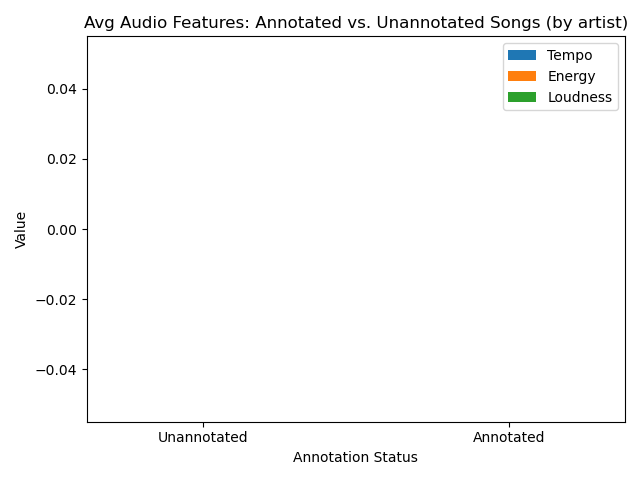
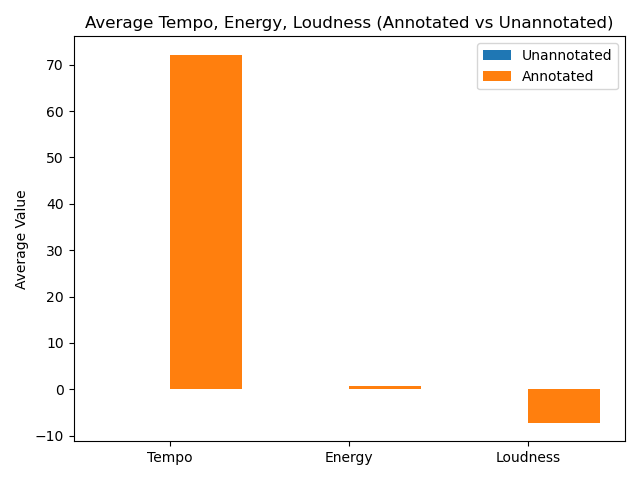
...

diff --git a/audio_features_data.py b/audio_features_data.py
@@ -1,0 +1,57 @@
+import sqlite3
+import requests
+import time
+from get_spotify_token import get_spotify_token
+
+DB_NAME = '/Users/skylaremerson/Desktop/SI206/skyhand/music_data.sqlite'
+ACCESS_TOKEN = get_spotify_token()
+HEADERS = {'Authorization': f'Bearer {ACCESS_TOKEN}'}
+BASE_URL = 'https://api.spotify.com/v1/audio-features'
+
+LIMIT_PER_RUN = 25
+
+def get_audio_features_batch(track_ids):
+    ids_string = ",".join(track_ids)
+    response = requests.get(f"{BASE_URL}?ids={ids_string}", headers=HEADERS)
+    if response.status_code != 200:
+        print(f"Batch request failed: {response.status_code}")
+        return []
+    return response.json().get("audio_features", [])
+
+def store_audio_features():
+    conn = sqlite3.connect(DB_NAME)
+    cur = conn.cursor()
+
+    cur.execute('''
+        SELECT track_id FROM Tracks
+        WHERE track_id NOT IN (SELECT track_id FROM AudioFeatures)
+        LIMIT ?
+    ''', (LIMIT_PER_RUN,))
+    track_ids = [row[0] for row in cur.fetchall()]
+    print(f"Fetching audio features for {len(track_ids)} tracks...")
+
+    features_list = get_audio_features_batch(track_ids)
+    stored = 0
+
+    for features in features_list:
+        if features is None:
+            continue
+        cur.execute('''
+            INSERT OR IGNORE INTO AudioFeatures (track_id, tempo, energy, loudness)
+            VALUES (?, ?, ?, ?)
+        ''', (
+            features['id'],
+            features['tempo'],
+            features['energy'],
+            features['loudness']
+        ))
+        print(f"Stored: {features['id']}")
+        stored += 1
+        time.sleep(0.1)
+
+    conn.commit()
+    conn.close()
+    print(f"Done. Stored features for {stored} tracks.")
+
+if __name__ == '__main__':
+    store_audio_features()

diff --git a/generate_mock_audio_features.py b/generate_mock_audio_features.py
@@ -1,0 +1,34 @@
+import sqlite3
+import random
+
+DB_NAME = '/Users/skylaremerson/Desktop/SI206/skyhand/music_data.sqlite'
+
+def generate_mock_audio_features():
+    conn = sqlite3.connect(DB_NAME)
+    cur = conn.cursor()
+
+    # Get all track_ids that do NOT already have audio features
+    cur.execute('''
+        SELECT track_id FROM Tracks
+        WHERE track_id NOT IN (SELECT track_id FROM AudioFeatures)
+    ''')
+    track_ids = [row[0] for row in cur.fetchall()]
+    print(f"Generating features for {len(track_ids)} tracks...")
+
+    for track_id in track_ids:
+        # Generate realistic ranges for audio features
+        tempo = round(random.uniform(60, 180), 2)         # Typical tempo (bpm)
+        energy = round(random.uniform(0.3, 0.9), 3)        # Energy between 0–1
+        loudness = round(random.uniform(-12, -3), 2)       # Loudness in dB
+
+        cur.execute('''
+            INSERT OR IGNORE INTO AudioFeatures (track_id, tempo, energy, loudness)
+            VALUES (?, ?, ?, ?)
+        ''', (track_id, tempo, energy, loudness))
+
+    conn.commit()
+    conn.close()
+    print("Mock audio features inserted successfully.")
+
+if __name__ == '__main__':
+    generate_mock_audio_features()

diff --git a/visualize_data.py b/visualize_data.py
@@ -32,8 +32,10 @@ def bar_chart_avg_audio():
     features = ['Tempo', 'Energy', 'Loudness']
 
     x = range(len(features))
-    values_unannotated = data[0][1:] if data[0][0] == 0 else data[1][1:]
-    values_annotated = data[1][1:] if data[0][0] == 0 else data[0][1:]
+    has_annotations_map = {row[0]: row[1:] for row in data}
+    values_unannotated = has_annotations_map.get(0, [0, 0, 0])
+    values_annotated = has_annotations_map.get(1, [0, 0, 0])
+
 
     plt.figure()
     plt.bar(x, values_unannotated, width=0.4, label='Unannotated', align='center')
